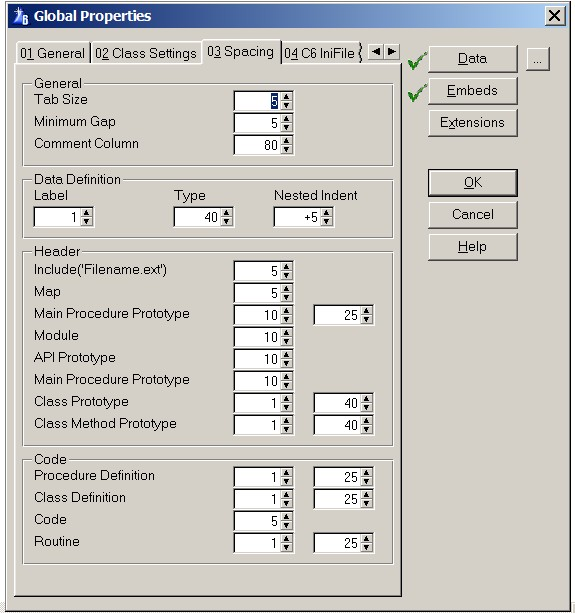
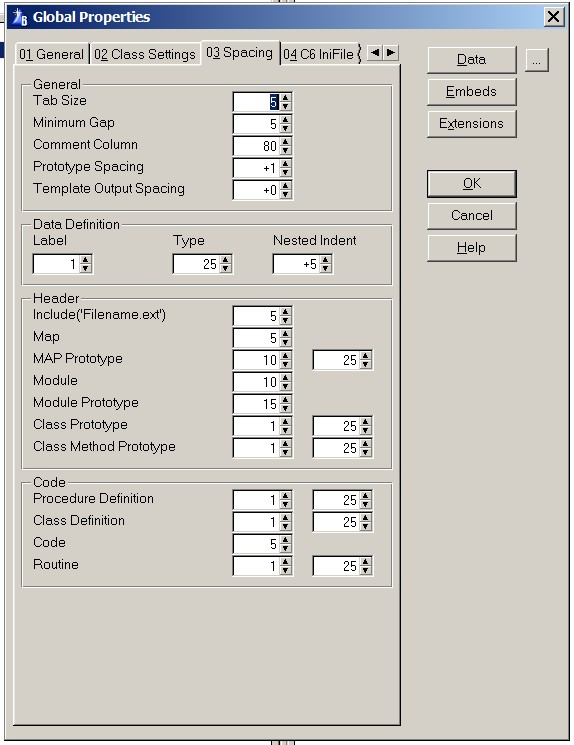
a

Changed region(s): [[0.0, 0.0, 1.0, 1.0]]

diff --git a/README.md b/README.md
@@ -119,7 +119,11 @@ The "Unique Name" assigned to each Method Overload with the parameters visible. 
 
 ![AppGen Realtime Spacing](https://github.com/Intelligent-Silicon/Clarion-Class-Writing-Template/blob/main/Pics/AppGen-Realtime-Embed-Source-Spacing.jpg)
 
-The Template lets you control the spacing of all the code output in realtime WYSIYG in the Embed Editor View Source and Source output file(s). Make an alignment change here, go to the AppGen procedure method, right mouse click Embed, click View Source and see the alignment changes made to get perfectly laid out code!
+![AppGen Realtime Template Spacing](https://github.com/Intelligent-Silicon/Clarion-Class-Writing-Template/blob/main/Pics/AppGen-Realtime-Template-Spacing.jpg)
+
+The Template lets you control the spacing (0-3 spaces) of all the code output in realtime WYSIWYG in the Embed Editor View Source and Source output file(s). Make an alignment change here, go to the AppGen procedure method, right mouse click Embed, click View Source and see the alignment changes made to get perfectly laid out code!
+
+Separate Spacing for Template views (0-3 spaces), catering for the typical screen user and ultra-wide screen user.
 
 
 ### Edit All or Selected Overloads in Embed Editor
